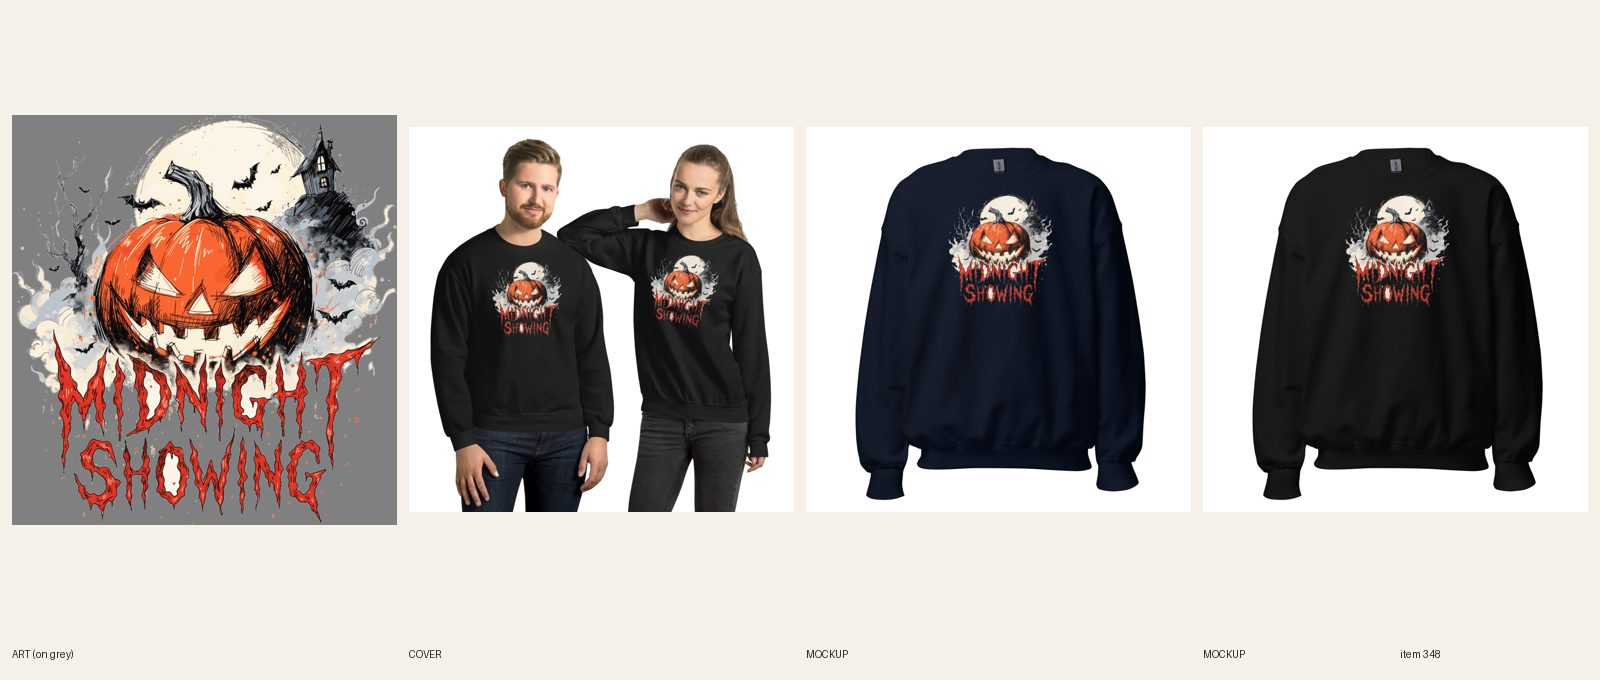
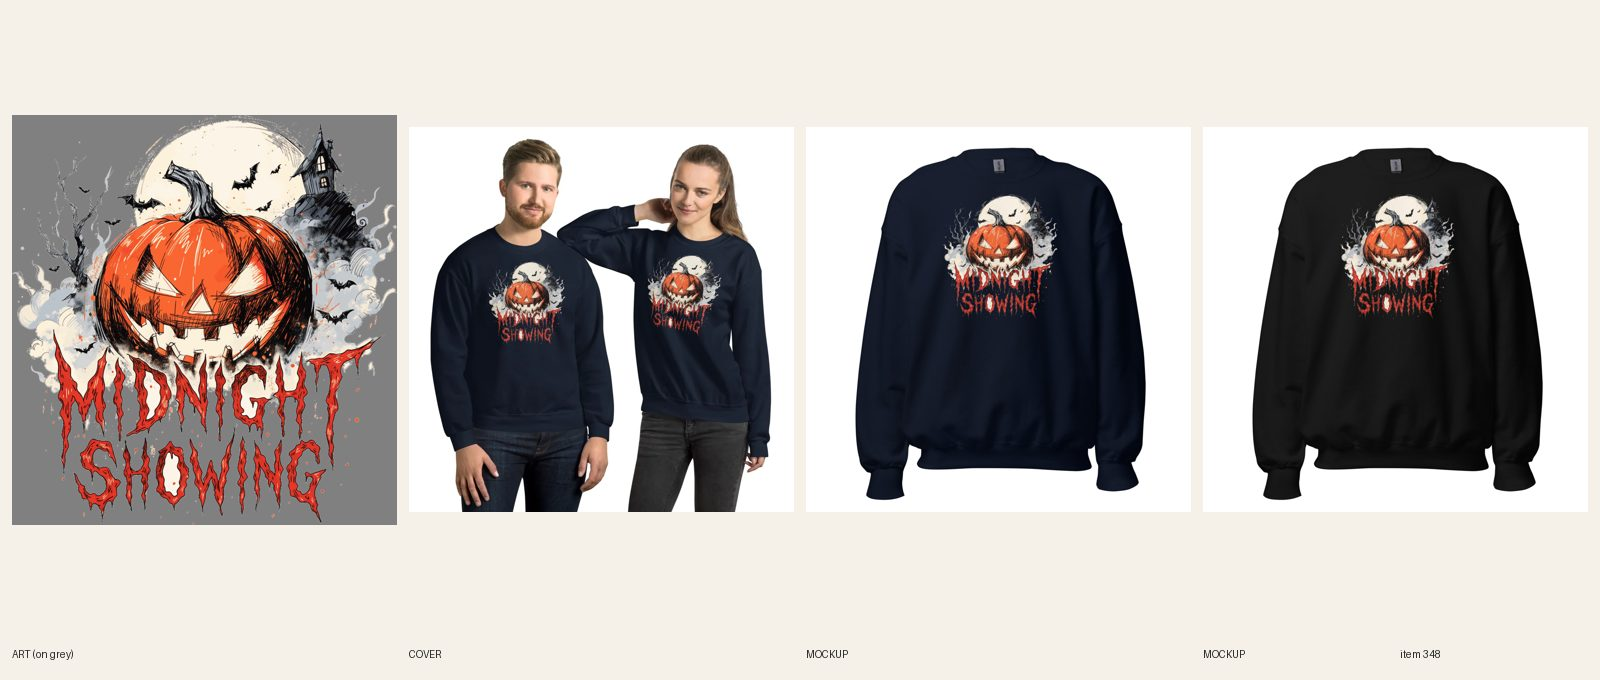
[A] review 348 Midnight Showing crewneck (REDO FW 1650)
Claude-Session: https://claude.ai/code/session_01RhkvLEM4PwLyKTWD8aeH3H

diff --git a/src/data/covers.ts b/src/data/covers.ts
@@ -323,7 +323,7 @@ export const covers: Record<string, { src: string; alt: string }> = {
   'mens-gym-leg-day-survivor-heavyweight-hoodie': { src: '/covers/mens-gym-leg-day-survivor-heavyweight-hoodie.webp', alt: 'Man wearing a grey heather I Survived Leg Day heavyweight gym hoodie, front view' },
   'womens-christian-amazing-grace-crewneck-sweatshirt': { src: '/covers/womens-christian-amazing-grace-crewneck-sweatshirt.webp', alt: 'Woman smiling in a navy Amazing Grace crewneck sweatshirt with a cross on a flower hill' },
   'womens-coffee-espresso-yourself-hoodie': { src: '/covers/womens-coffee-espresso-yourself-hoodie.webp', alt: 'Woman smiling in a Sand Espresso Yourself coffee hoodie with the hood down' },
-  'unisex-horror-midnight-showing-crewneck-sweatshirt': { src: '/covers/unisex-horror-midnight-showing-crewneck-sweatshirt.webp', alt: 'Man and woman in black Midnight Showing horror crewneck sweatshirts with a jack-o\'-lantern print' },
+  'unisex-horror-midnight-showing-crewneck-sweatshirt': { src: '/covers/unisex-horror-midnight-showing-crewneck-sweatshirt.webp', alt: 'Man and woman in navy Midnight Showing horror crewneck sweatshirts with a jack-o\'-lantern print' },
   'womens-western-howdy-crewneck-sweatshirt': { src: '/covers/womens-western-howdy-crewneck-sweatshirt.webp', alt: 'Woman smiling in a Sand Howdy crewneck sweatshirt with a pink cowgirl hat print' },
   'womens-y2k-still-loading-hoodie': { src: '/covers/womens-y2k-still-loading-hoodie.webp', alt: 'Woman in a Sand Still Loading Since 1999 hoodie with a teal retro computer print' },
 };

diff --git a/docs/pipeline/348-horror-crewneck-night-shift.md b/docs/pipeline/348-horror-crewneck-night-shift.md
@@ -1,10 +1,10 @@
-status: REDO
+status: REVIEW
 lane: A
 type: twin
 id: 348
 handle: unisex-horror-midnight-showing-crewneck-sweatshirt
 shopify: gid://shopify/Product/15363134587184
-cover: temp
+cover: temp (swap)
 kd: 44
 ---
 ## Unisex Horror – Midnight Showing Crewneck Sweatshirt
@@ -28,3 +28,4 @@ kd: 44
   1. R5.3.2 (twins, crewnecks go to FW 1650): linked at FW 1500, the pumpkin and MIDNIGHT SHOWING cover about a third of the chest on both mockups and SHOWING needs a squint at phone size. Re-link at FW 1650 (TOP 75 is fine), 12/12.
   2. R6.6: the Printful Couple's temp cover (style 1201) is the same couple as #350's live cover. Use a different Printful lifestyle style for the new temp cover (any that shows a man and a woman, or log that none exists and mark it cover: swap).
   3. New Navy + Black mockups, variant images and temp cover from the wider print, then REVIEW.
+- 2026-10-17 07:59 UTC builder [A]: REDO done (no fal). (1) Re-linked all 12 variants at FW=1650 TOP=75 (sync 482400311, 12/12, same file 1088068459). (2) New Navy + Black front mockups and back replaced in place (fileUpdate, variant links kept). (3) Temp cover: Printful has only ONE couple style for the Gildan 18000 (Couple's, 1201), so it is reused in Navy (new print width, different color than #350) and marked cover: temp (swap): fal cover first when funded. covers.ts alt updated to navy. Phone-size read: MIDNIGHT SHOWING legible on Navy and Black. Sheet docs/review/348.jpg. REVIEW.

diff --git a/docs/intake-log.md b/docs/intake-log.md
@@ -1,3 +1,4 @@
+2026-10-17 07:59 UTC — [A] REVIEW #348 Midnight Showing crewneck (REDO: FW 1650, new mockups, temp cover 1201 Navy, cover: temp (swap))
 RUNNING lane A since 2026-10-17 07:57 UTC
 2026-10-17 07:43 UTC — [H] helper run: audit 304 products, 85 price ERRORs (builders own prices), 0 SEO/meta/tag errors, 0 products without a Shopify category (positive-control query checked), 3 recent LIVE pages 200, no stuck BUILDING items, no Telegram messages. Lock released.
 RUNNING helper since 2026-10-17 07:42 UTC
